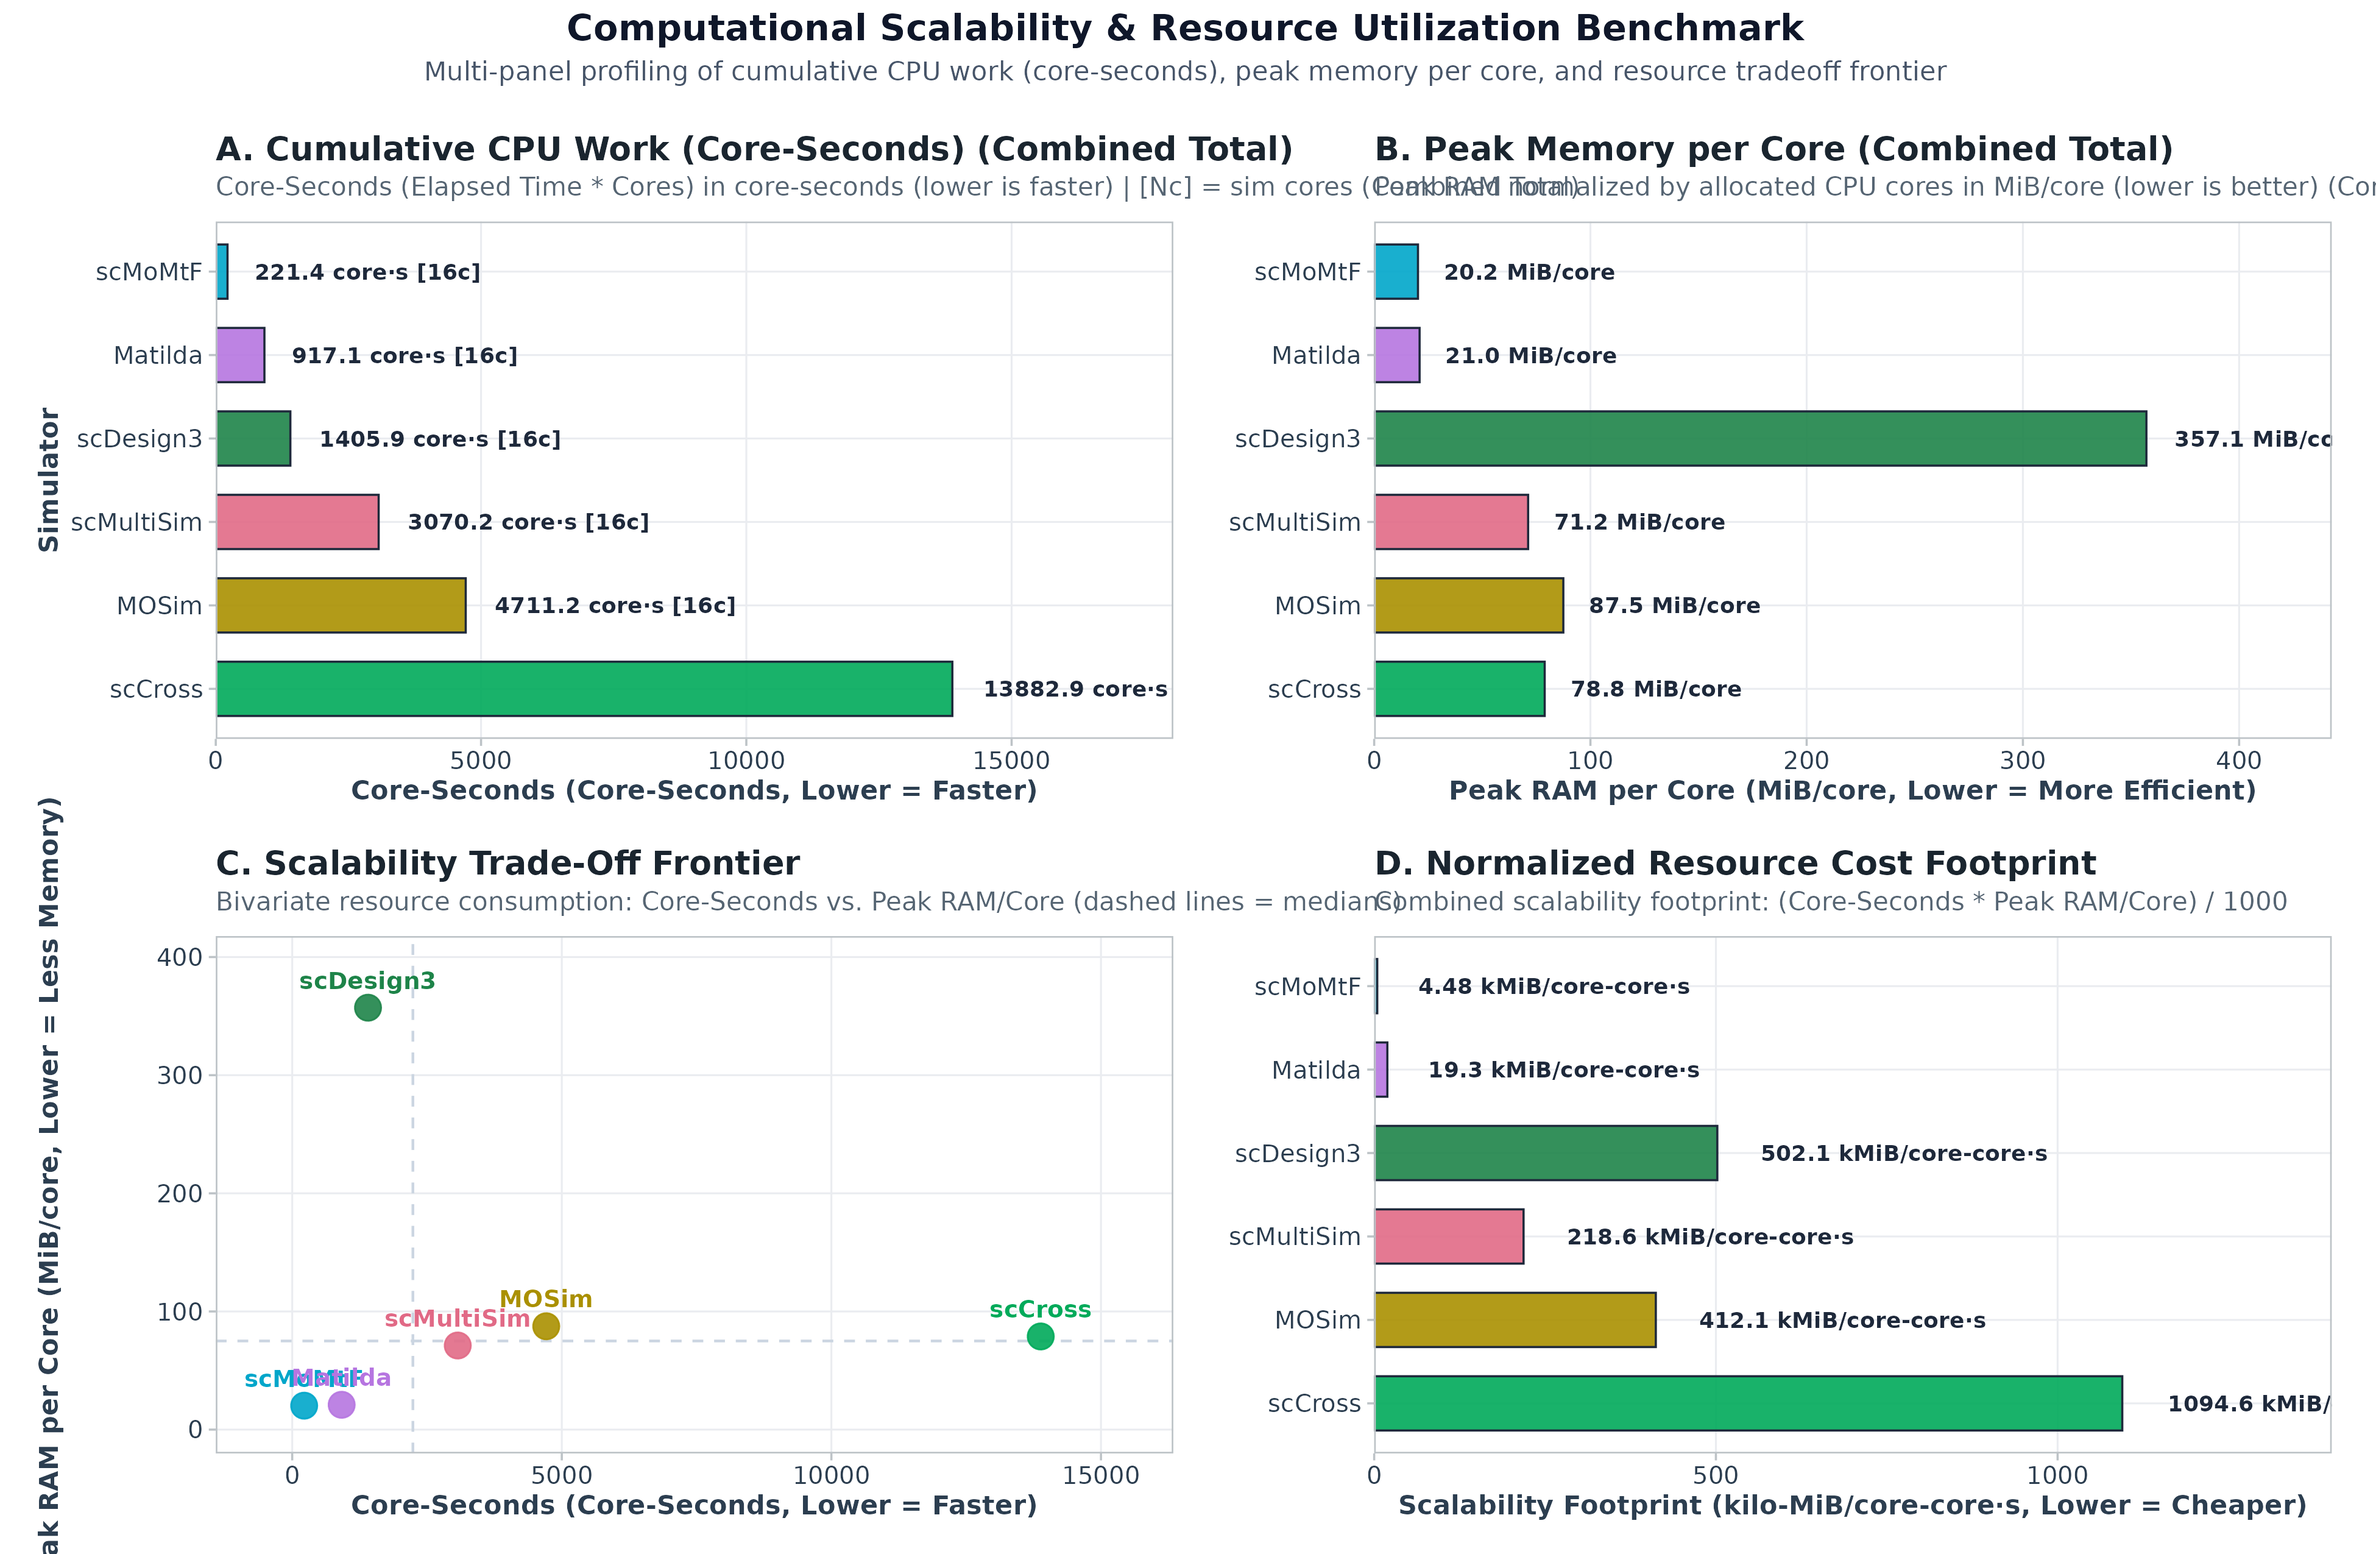
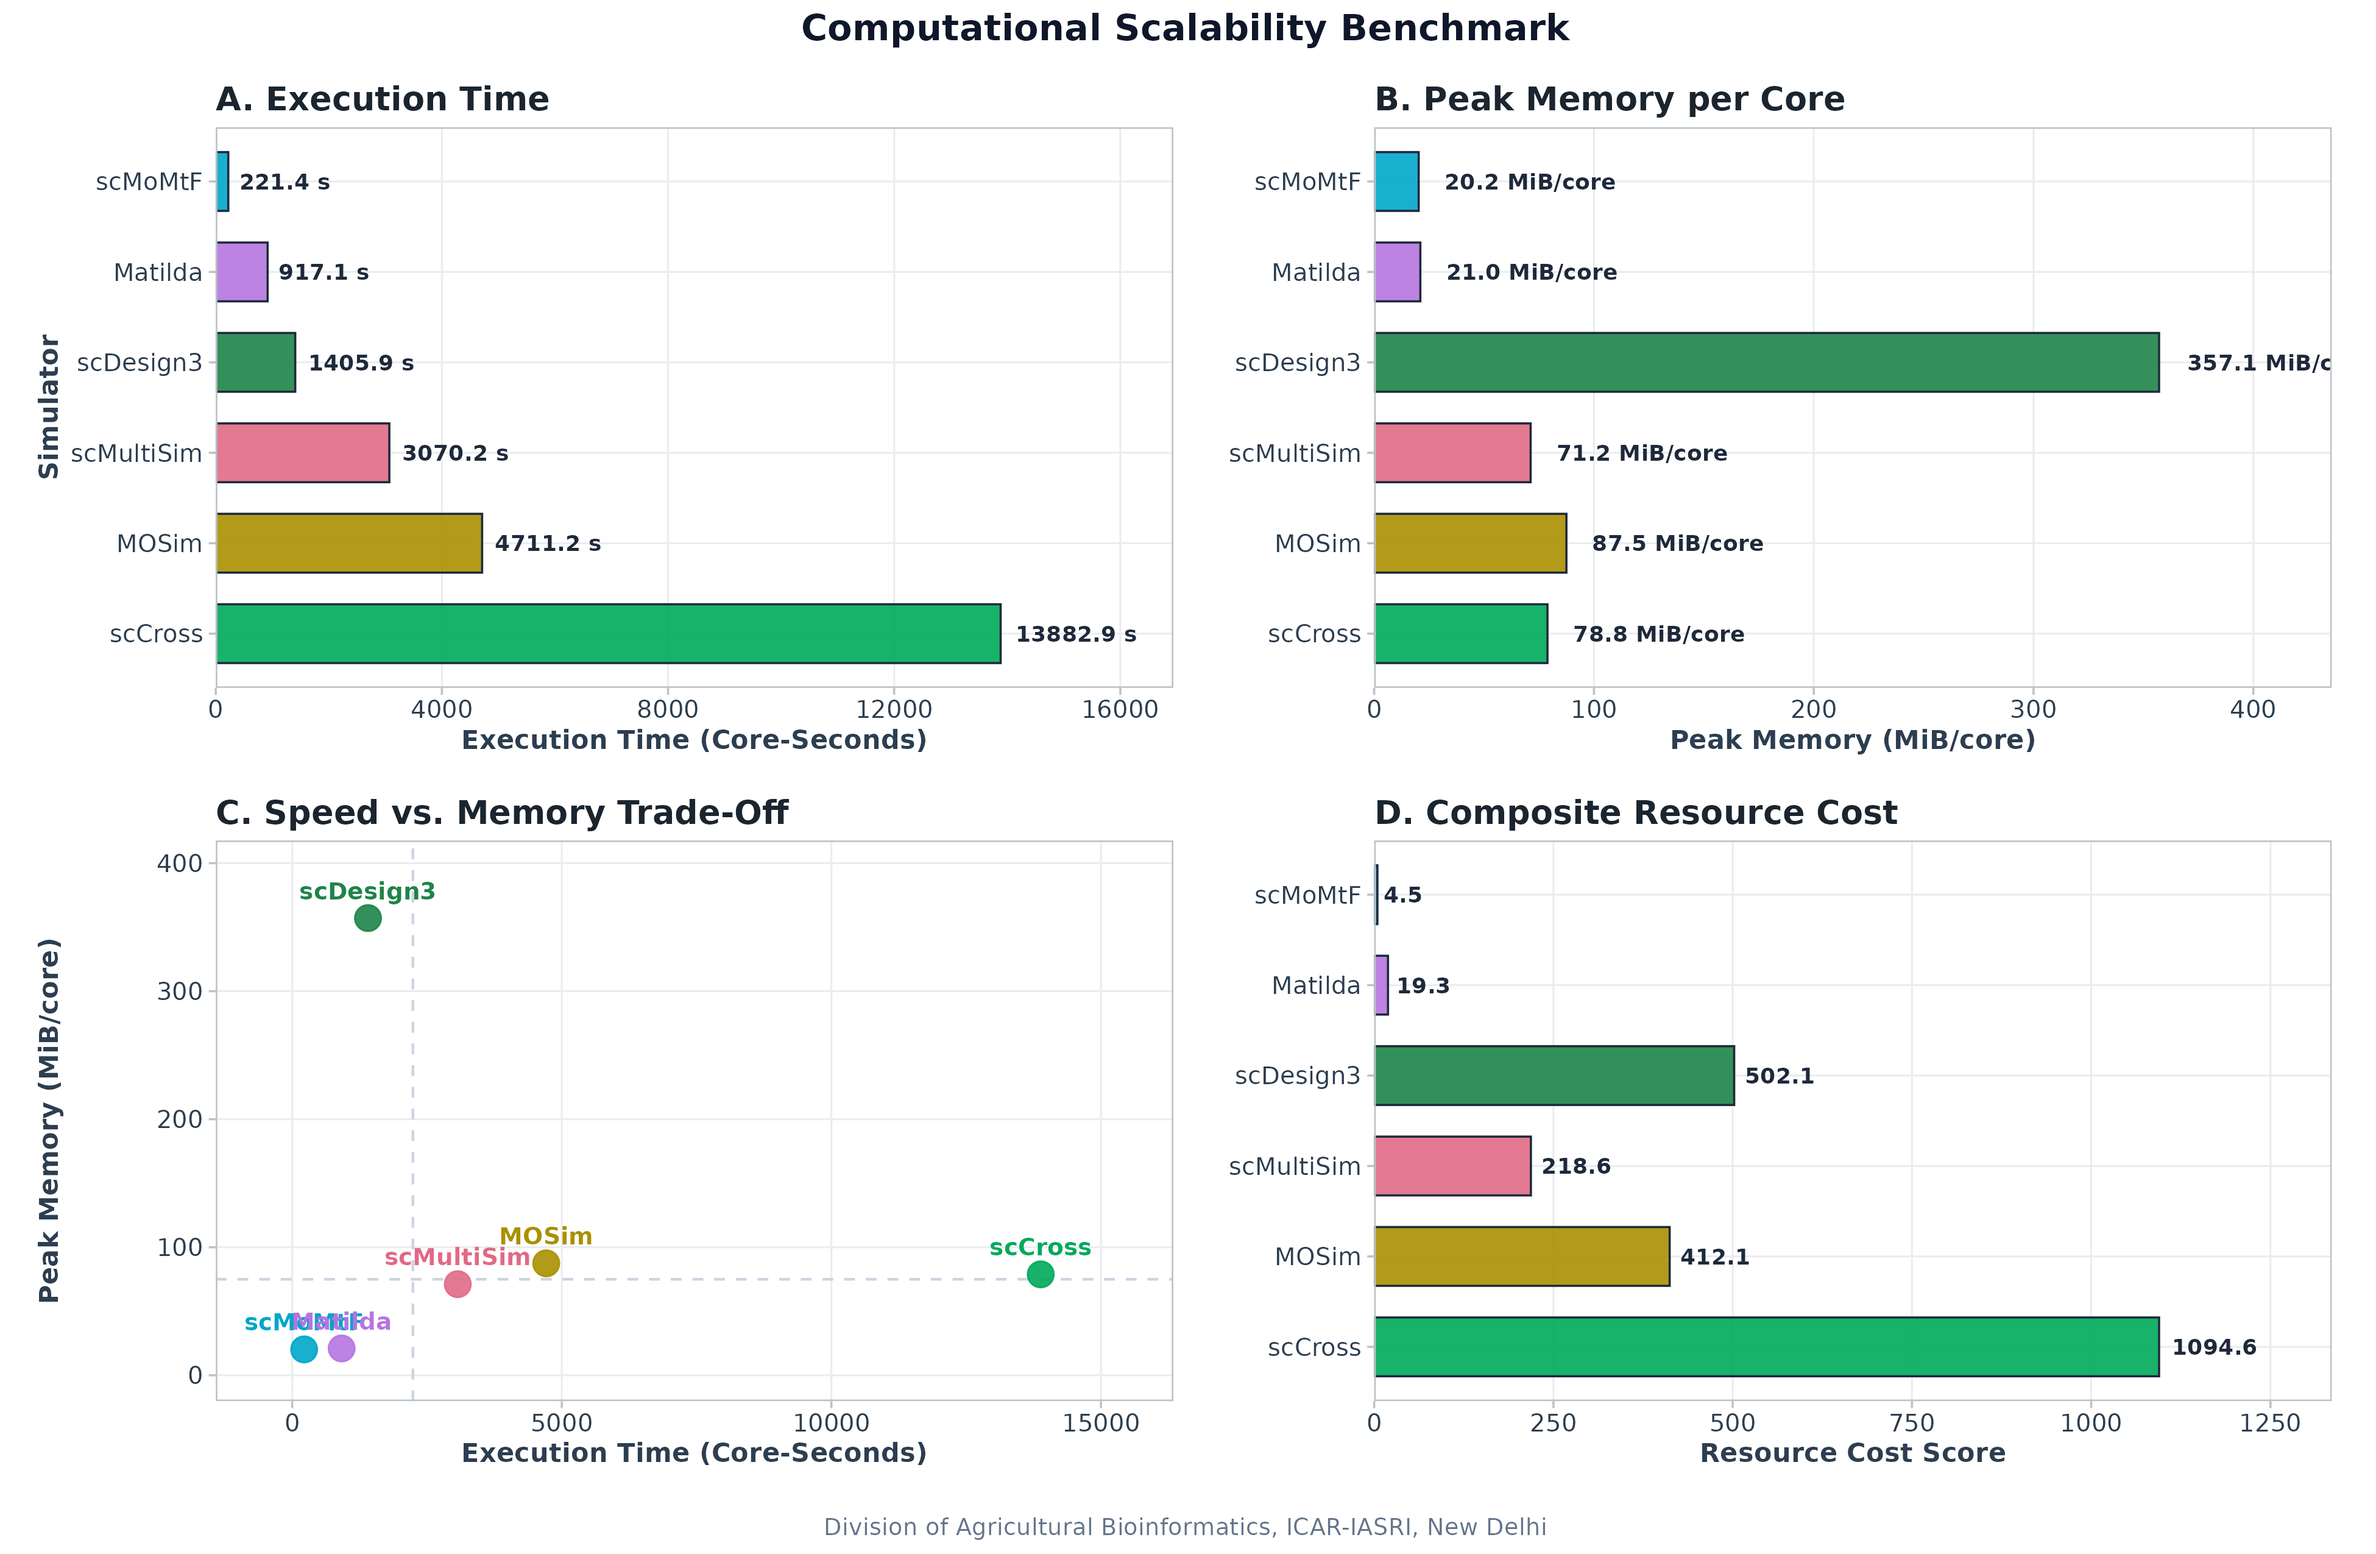
Simplify Computational Scalability Benchmark plot wordings and add ICAR-IASRI footer

diff --git a/docs/authors.html b/docs/authors.html
@@ -112,7 +112,7 @@ R package version 0.99.10, <a href="https://kabilanbio.github.io/scSimEval/">htt
 
 
     <footer><div class="pkgdown-footer-left">
-  <p>NULL</p>
+  <p>Developed by Kabilan Sakthivel, Dr Dwijesh Chandra Mishra, Dr Shashi Bhushan Lal, Dr Ulavappa Angadi, Dr Sudhir Srivastava, Dr Neeraj Budhlakoti, Dr Krishna Kumar Chaturvedi, Dr Ranjeet Ranjan Kumar, Dr Navin Chandra Gupta.</p>
 </div>
 
 <div class="pkgdown-footer-right">

diff --git a/docs/404.html b/docs/404.html
@@ -85,7 +85,7 @@ Content not found. Please use links in the navbar.
 
 
     <footer><div class="pkgdown-footer-left">
-  <p>NULL</p>
+  <p>Developed by Kabilan Sakthivel, Dr Dwijesh Chandra Mishra, Dr Shashi Bhushan Lal, Dr Ulavappa Angadi, Dr Sudhir Srivastava, Dr Neeraj Budhlakoti, Dr Krishna Kumar Chaturvedi, Dr Ranjeet Ranjan Kumar, Dr Navin Chandra Gupta.</p>
 </div>
 
 <div class="pkgdown-footer-right">

diff --git a/docs/articles/metrics-catalog.html b/docs/articles/metrics-catalog.html
@@ -816,7 +816,7 @@ consumption divided by allocated cores.</td>
 
 
     <footer><div class="pkgdown-footer-left">
-  <p>NULL</p>
+  <p>Developed by Kabilan Sakthivel, Dr Dwijesh Chandra Mishra, Dr Shashi Bhushan Lal, Dr Ulavappa Angadi, Dr Sudhir Srivastava, Dr Neeraj Budhlakoti, Dr Krishna Kumar Chaturvedi, Dr Ranjeet Ranjan Kumar, Dr Navin Chandra Gupta.</p>
 </div>
 
 <div class="pkgdown-footer-right">

diff --git a/docs/articles/scSimEval-workflow.html b/docs/articles/scSimEval-workflow.html
@@ -493,7 +493,7 @@ and peak resident memory (RAM MiB).</td>
 
 
     <footer><div class="pkgdown-footer-left">
-  <p>NULL</p>
+  <p>Developed by Kabilan Sakthivel, Dr Dwijesh Chandra Mishra, Dr Shashi Bhushan Lal, Dr Ulavappa Angadi, Dr Sudhir Srivastava, Dr Neeraj Budhlakoti, Dr Krishna Kumar Chaturvedi, Dr Ranjeet Ranjan Kumar, Dr Navin Chandra Gupta.</p>
 </div>
 
 <div class="pkgdown-footer-right">

diff --git a/docs/LICENSE-text.html b/docs/LICENSE-text.html
@@ -54,7 +54,7 @@ COPYRIGHT HOLDER: scSimEval contributors
 
 
     <footer><div class="pkgdown-footer-left">
-  <p>NULL</p>
+  <p>Developed by Kabilan Sakthivel, Dr Dwijesh Chandra Mishra, Dr Shashi Bhushan Lal, Dr Ulavappa Angadi, Dr Sudhir Srivastava, Dr Neeraj Budhlakoti, Dr Krishna Kumar Chaturvedi, Dr Ranjeet Ranjan Kumar, Dr Navin Chandra Gupta.</p>
 </div>
 
 <div class="pkgdown-footer-right">

diff --git a/docs/articles/demo-scatac.html b/docs/articles/demo-scatac.html
@@ -374,7 +374,7 @@ curated evaluation measures suite.</p>
 
 
     <footer><div class="pkgdown-footer-left">
-  <p>NULL</p>
+  <p>Developed by Kabilan Sakthivel, Dr Dwijesh Chandra Mishra, Dr Shashi Bhushan Lal, Dr Ulavappa Angadi, Dr Sudhir Srivastava, Dr Neeraj Budhlakoti, Dr Krishna Kumar Chaturvedi, Dr Ranjeet Ranjan Kumar, Dr Navin Chandra Gupta.</p>
 </div>
 
 <div class="pkgdown-footer-right">

diff --git a/docs/articles/demo-multiomics.html b/docs/articles/demo-multiomics.html
@@ -644,7 +644,7 @@ unimodal evaluation</td>
 
 
     <footer><div class="pkgdown-footer-left">
-  <p>NULL</p>
+  <p>Developed by Kabilan Sakthivel, Dr Dwijesh Chandra Mishra, Dr Shashi Bhushan Lal, Dr Ulavappa Angadi, Dr Sudhir Srivastava, Dr Neeraj Budhlakoti, Dr Krishna Kumar Chaturvedi, Dr Ranjeet Ranjan Kumar, Dr Navin Chandra Gupta.</p>
 </div>
 
 <div class="pkgdown-footer-right">

diff --git a/docs/articles/demo-scrna.html b/docs/articles/demo-scrna.html
@@ -839,7 +839,7 @@ across simulators.
 
 
     <footer><div class="pkgdown-footer-left">
-  <p>NULL</p>
+  <p>Developed by Kabilan Sakthivel, Dr Dwijesh Chandra Mishra, Dr Shashi Bhushan Lal, Dr Ulavappa Angadi, Dr Sudhir Srivastava, Dr Neeraj Budhlakoti, Dr Krishna Kumar Chaturvedi, Dr Ranjeet Ranjan Kumar, Dr Navin Chandra Gupta.</p>
 </div>
 
 <div class="pkgdown-footer-right">

diff --git a/docs/articles/demo-saved-rds.html b/docs/articles/demo-saved-rds.html
@@ -422,7 +422,7 @@ interface.</p>
 
 
     <footer><div class="pkgdown-footer-left">
-  <p>NULL</p>
+  <p>Developed by Kabilan Sakthivel, Dr Dwijesh Chandra Mishra, Dr Shashi Bhushan Lal, Dr Ulavappa Angadi, Dr Sudhir Srivastava, Dr Neeraj Budhlakoti, Dr Krishna Kumar Chaturvedi, Dr Ranjeet Ranjan Kumar, Dr Navin Chandra Gupta.</p>
 </div>
 
 <div class="pkgdown-footer-right">

diff --git a/docs/index.html b/docs/index.html
@@ -237,7 +237,7 @@
 
 
     <footer><div class="pkgdown-footer-left">
-  <p>NULL</p>
+  <p>Developed by Kabilan Sakthivel, Dr Dwijesh Chandra Mishra, Dr Shashi Bhushan Lal, Dr Ulavappa Angadi, Dr Sudhir Srivastava, Dr Neeraj Budhlakoti, Dr Krishna Kumar Chaturvedi, Dr Ranjeet Ranjan Kumar, Dr Navin Chandra Gupta.</p>
 </div>
 
 <div class="pkgdown-footer-right">
